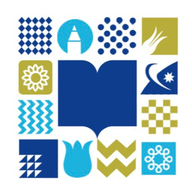
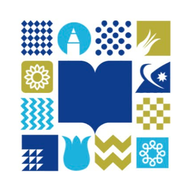
PWA ikon optik ortalama (v3).
Kitap merkezine gore sola-yukari nudge; esit kenar boslugu.

diff --git a/templates/includes/pwa_head.html b/templates/includes/pwa_head.html
@@ -6,6 +6,6 @@
 <meta name="apple-mobile-web-app-title" content="{{ panel_mobile_short|default:panel_short }}">
 <meta name="application-name" content="{{ panel_mobile_short|default:panel_short }}">
 <link rel="manifest" href="{% url 'web_manifest' %}">
-<link rel="apple-touch-icon" sizes="180x180" href="{% static 'images/cinili-saray-pwa-icon-180.png' %}?v=2">
-<link rel="icon" type="image/png" sizes="192x192" href="{% static 'images/cinili-saray-pwa-icon-192.png' %}?v=2">
-<link rel="icon" type="image/png" sizes="512x512" href="{% static 'images/cinili-saray-pwa-icon.png' %}?v=2">
+<link rel="apple-touch-icon" sizes="180x180" href="{% static 'images/cinili-saray-pwa-icon-180.png' %}?v=3">
+<link rel="icon" type="image/png" sizes="192x192" href="{% static 'images/cinili-saray-pwa-icon-192.png' %}?v=3">
+<link rel="icon" type="image/png" sizes="512x512" href="{% static 'images/cinili-saray-pwa-icon.png' %}?v=3">

diff --git a/templates/base.html b/templates/base.html
@@ -124,7 +124,7 @@
 <script src="{% static 'js/multi-select-filter.js' %}"></script>
 <script src="{% static 'js/bildirim-bell.js' %}"></script>
 <script src="{% static 'js/cs-table-mobile.js' %}?v=5"></script>
-<script src="{% static 'js/pwa-install.js' %}?v=2"></script>
+<script src="{% static 'js/pwa-install.js' %}?v=3"></script>
 {% block extra_js %}{% endblock %}
 </body>
 </html>

diff --git a/templates/yonetim/base.html b/templates/yonetim/base.html
@@ -110,7 +110,7 @@
 <script src="{% static 'js/multi-select-filter.js' %}"></script>
 <script src="{% static 'js/bildirim-bell.js' %}"></script>
 <script src="{% static 'js/cs-table-mobile.js' %}?v=5"></script>
-<script src="{% static 'js/pwa-install.js' %}?v=2"></script>
+<script src="{% static 'js/pwa-install.js' %}?v=3"></script>
 {% block extra_js %}{% endblock %}
 </body>
 </html>

diff --git a/templates/ogretmen/base.html b/templates/ogretmen/base.html
@@ -88,7 +88,7 @@
 {% endif %}
 <script src="{% static 'js/bildirim-bell.js' %}"></script>
 <script src="{% static 'js/cs-table-mobile.js' %}?v=5"></script>
-<script src="{% static 'js/pwa-install.js' %}?v=2"></script>
+<script src="{% static 'js/pwa-install.js' %}?v=3"></script>
 {% block extra_js %}{% endblock %}
 </body>
 </html>

diff --git a/templates/veli/base.html b/templates/veli/base.html
@@ -93,7 +93,7 @@
 {% endif %}
 <script src="{% static 'js/bildirim-bell.js' %}"></script>
 <script src="{% static 'js/cs-table-mobile.js' %}?v=5"></script>
-<script src="{% static 'js/pwa-install.js' %}?v=2"></script>
+<script src="{% static 'js/pwa-install.js' %}?v=3"></script>
 {% block extra_js %}{% endblock %}
 </body>
 </html>

diff --git a/templates/talebe/base.html b/templates/talebe/base.html
@@ -84,7 +84,7 @@
 <script src="{% static 'js/ai-zekasi.js' %}"></script>
 {% endif %}
 <script src="{% static 'js/cs-table-mobile.js' %}?v=5"></script>
-<script src="{% static 'js/pwa-install.js' %}?v=2"></script>
+<script src="{% static 'js/pwa-install.js' %}?v=3"></script>
 {% block extra_js %}{% endblock %}
 </body>
 </html>

diff --git a/templates/registration/login.html b/templates/registration/login.html
@@ -138,6 +138,6 @@
     </div>
 </div>
 <script src="{% static 'js/login-portal.js' %}"></script>
-<script src="{% static 'js/pwa-install.js' %}?v=2"></script>
+<script src="{% static 'js/pwa-install.js' %}?v=3"></script>
 </body>
 </html>

diff --git a/static/sw.js b/static/sw.js
@@ -1,6 +1,6 @@
 /* Çinili Saray Proje — minimal service worker (ana ekrana ekle / yükle) */
 
-const SW_VERSION = "csp-pwa-2";
+const SW_VERSION = "csp-pwa-3";
 
 self.addEventListener("install", (event) => {
     self.skipWaiting();
